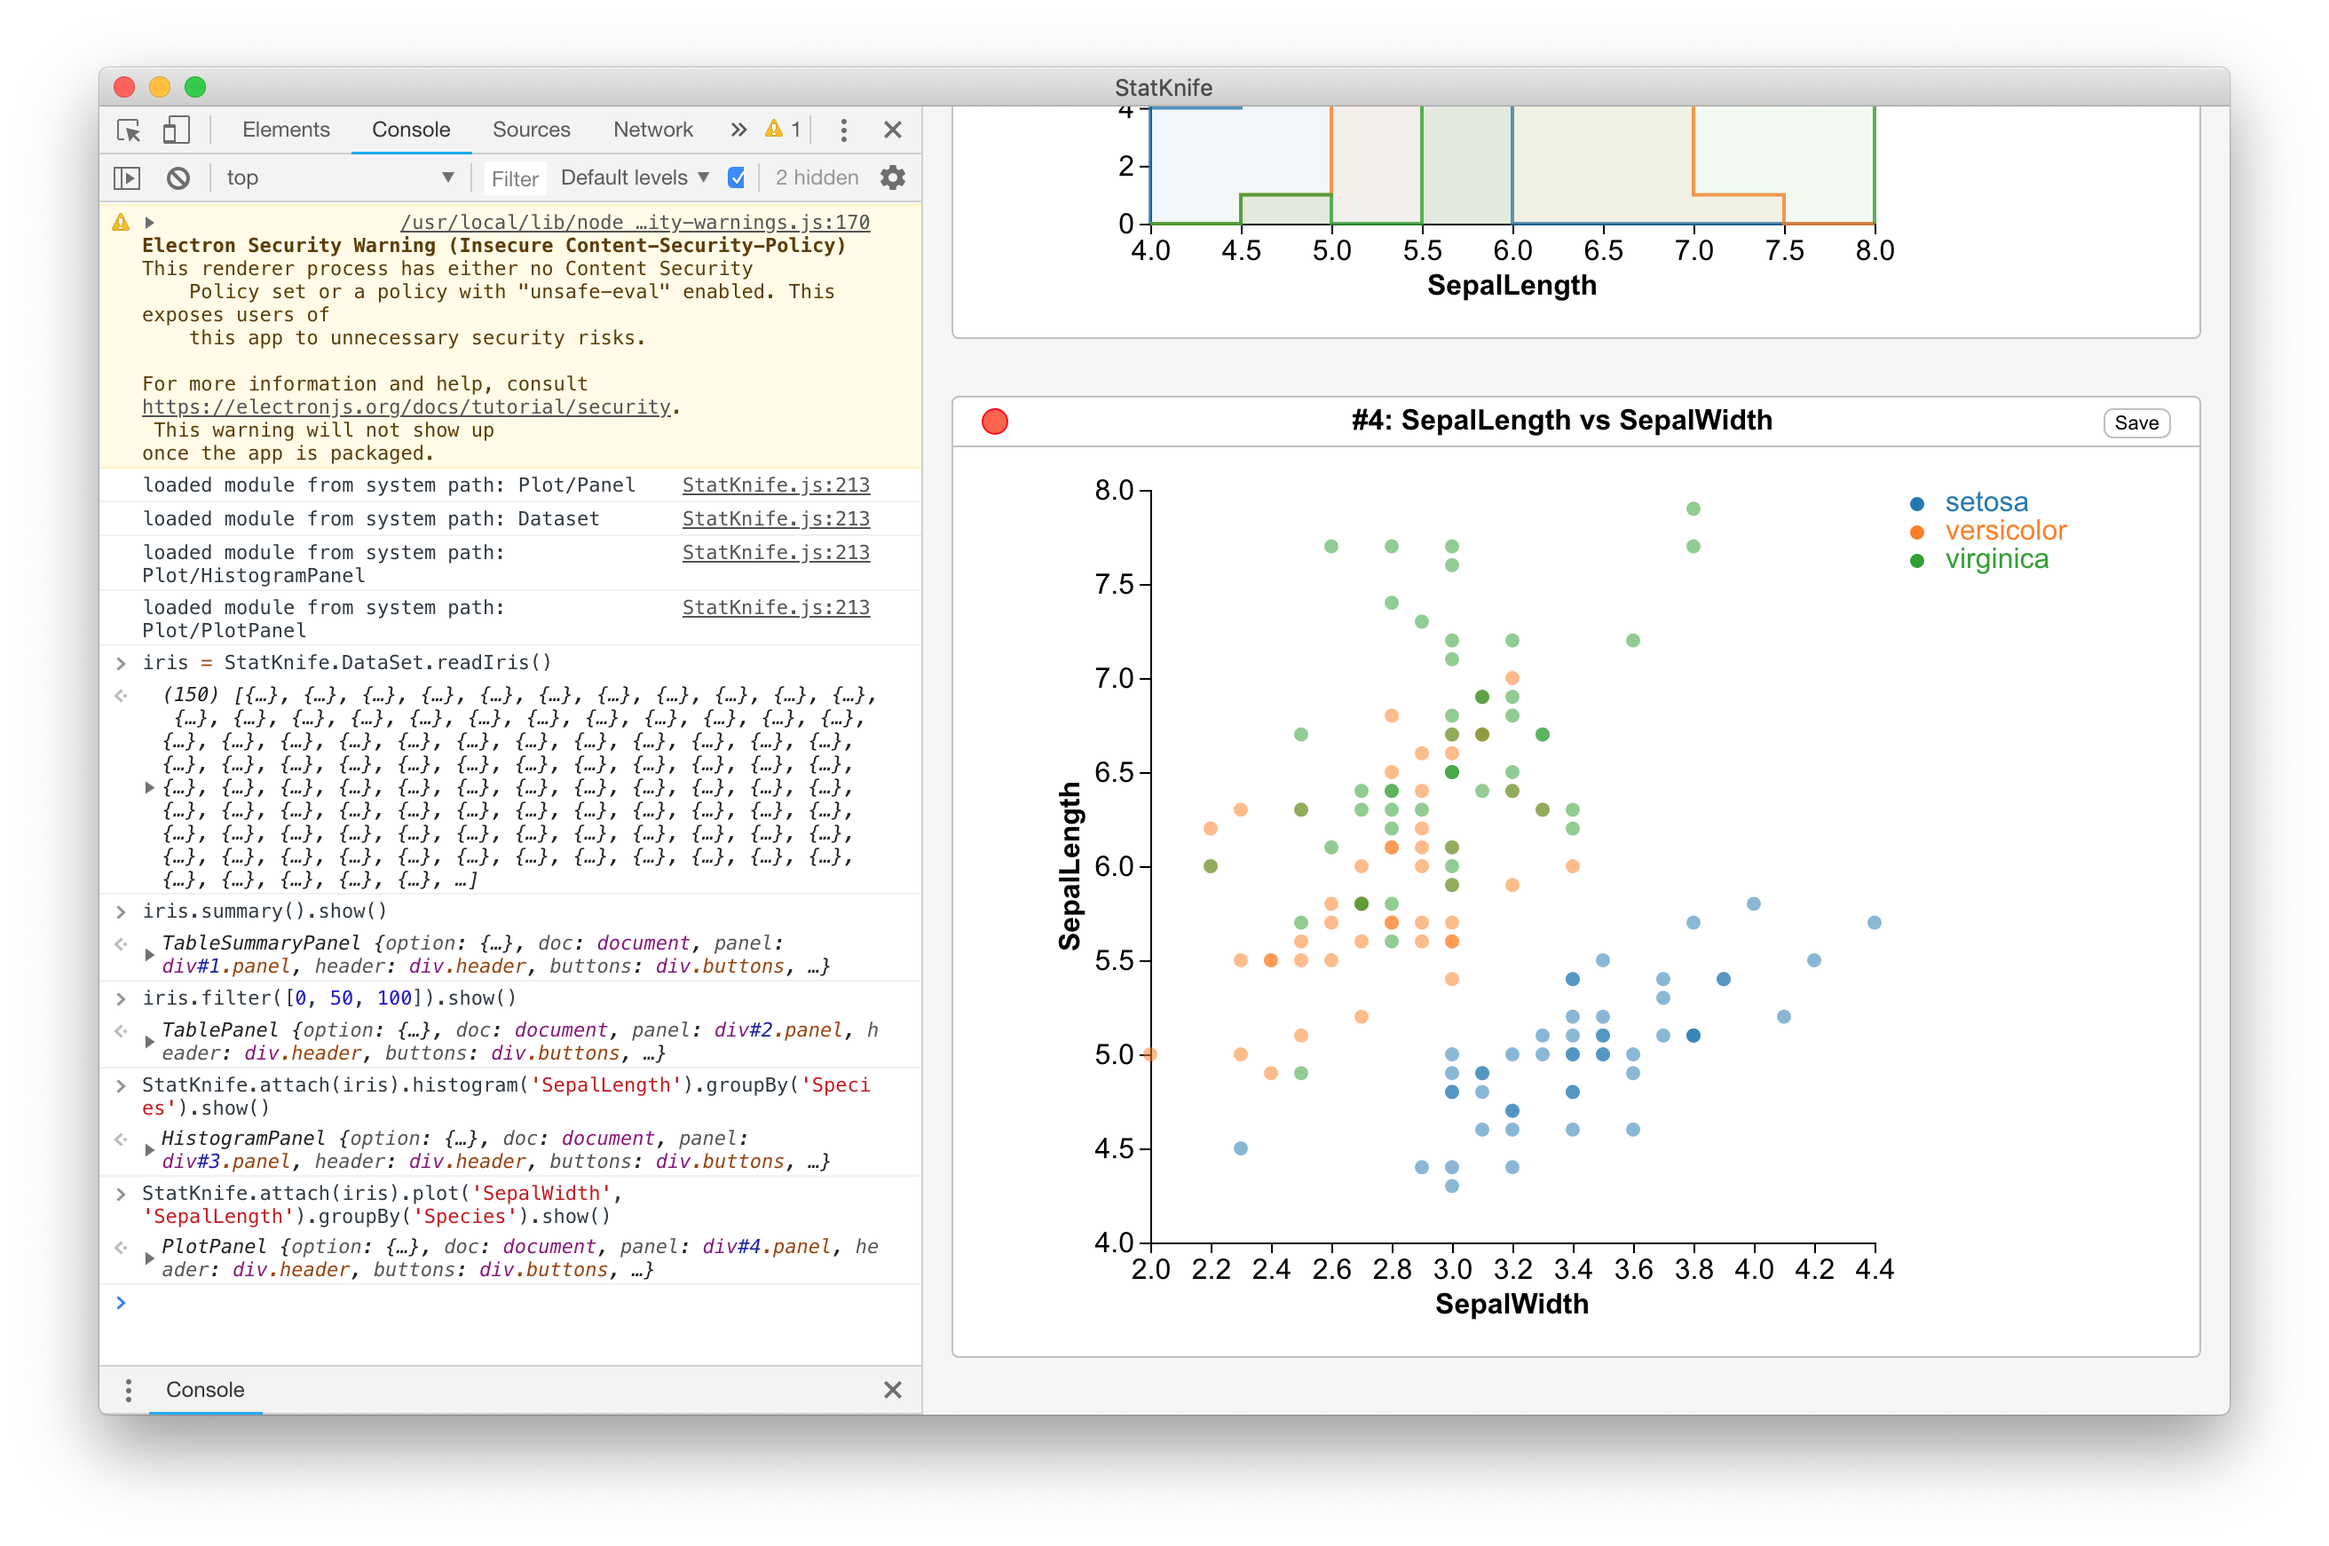
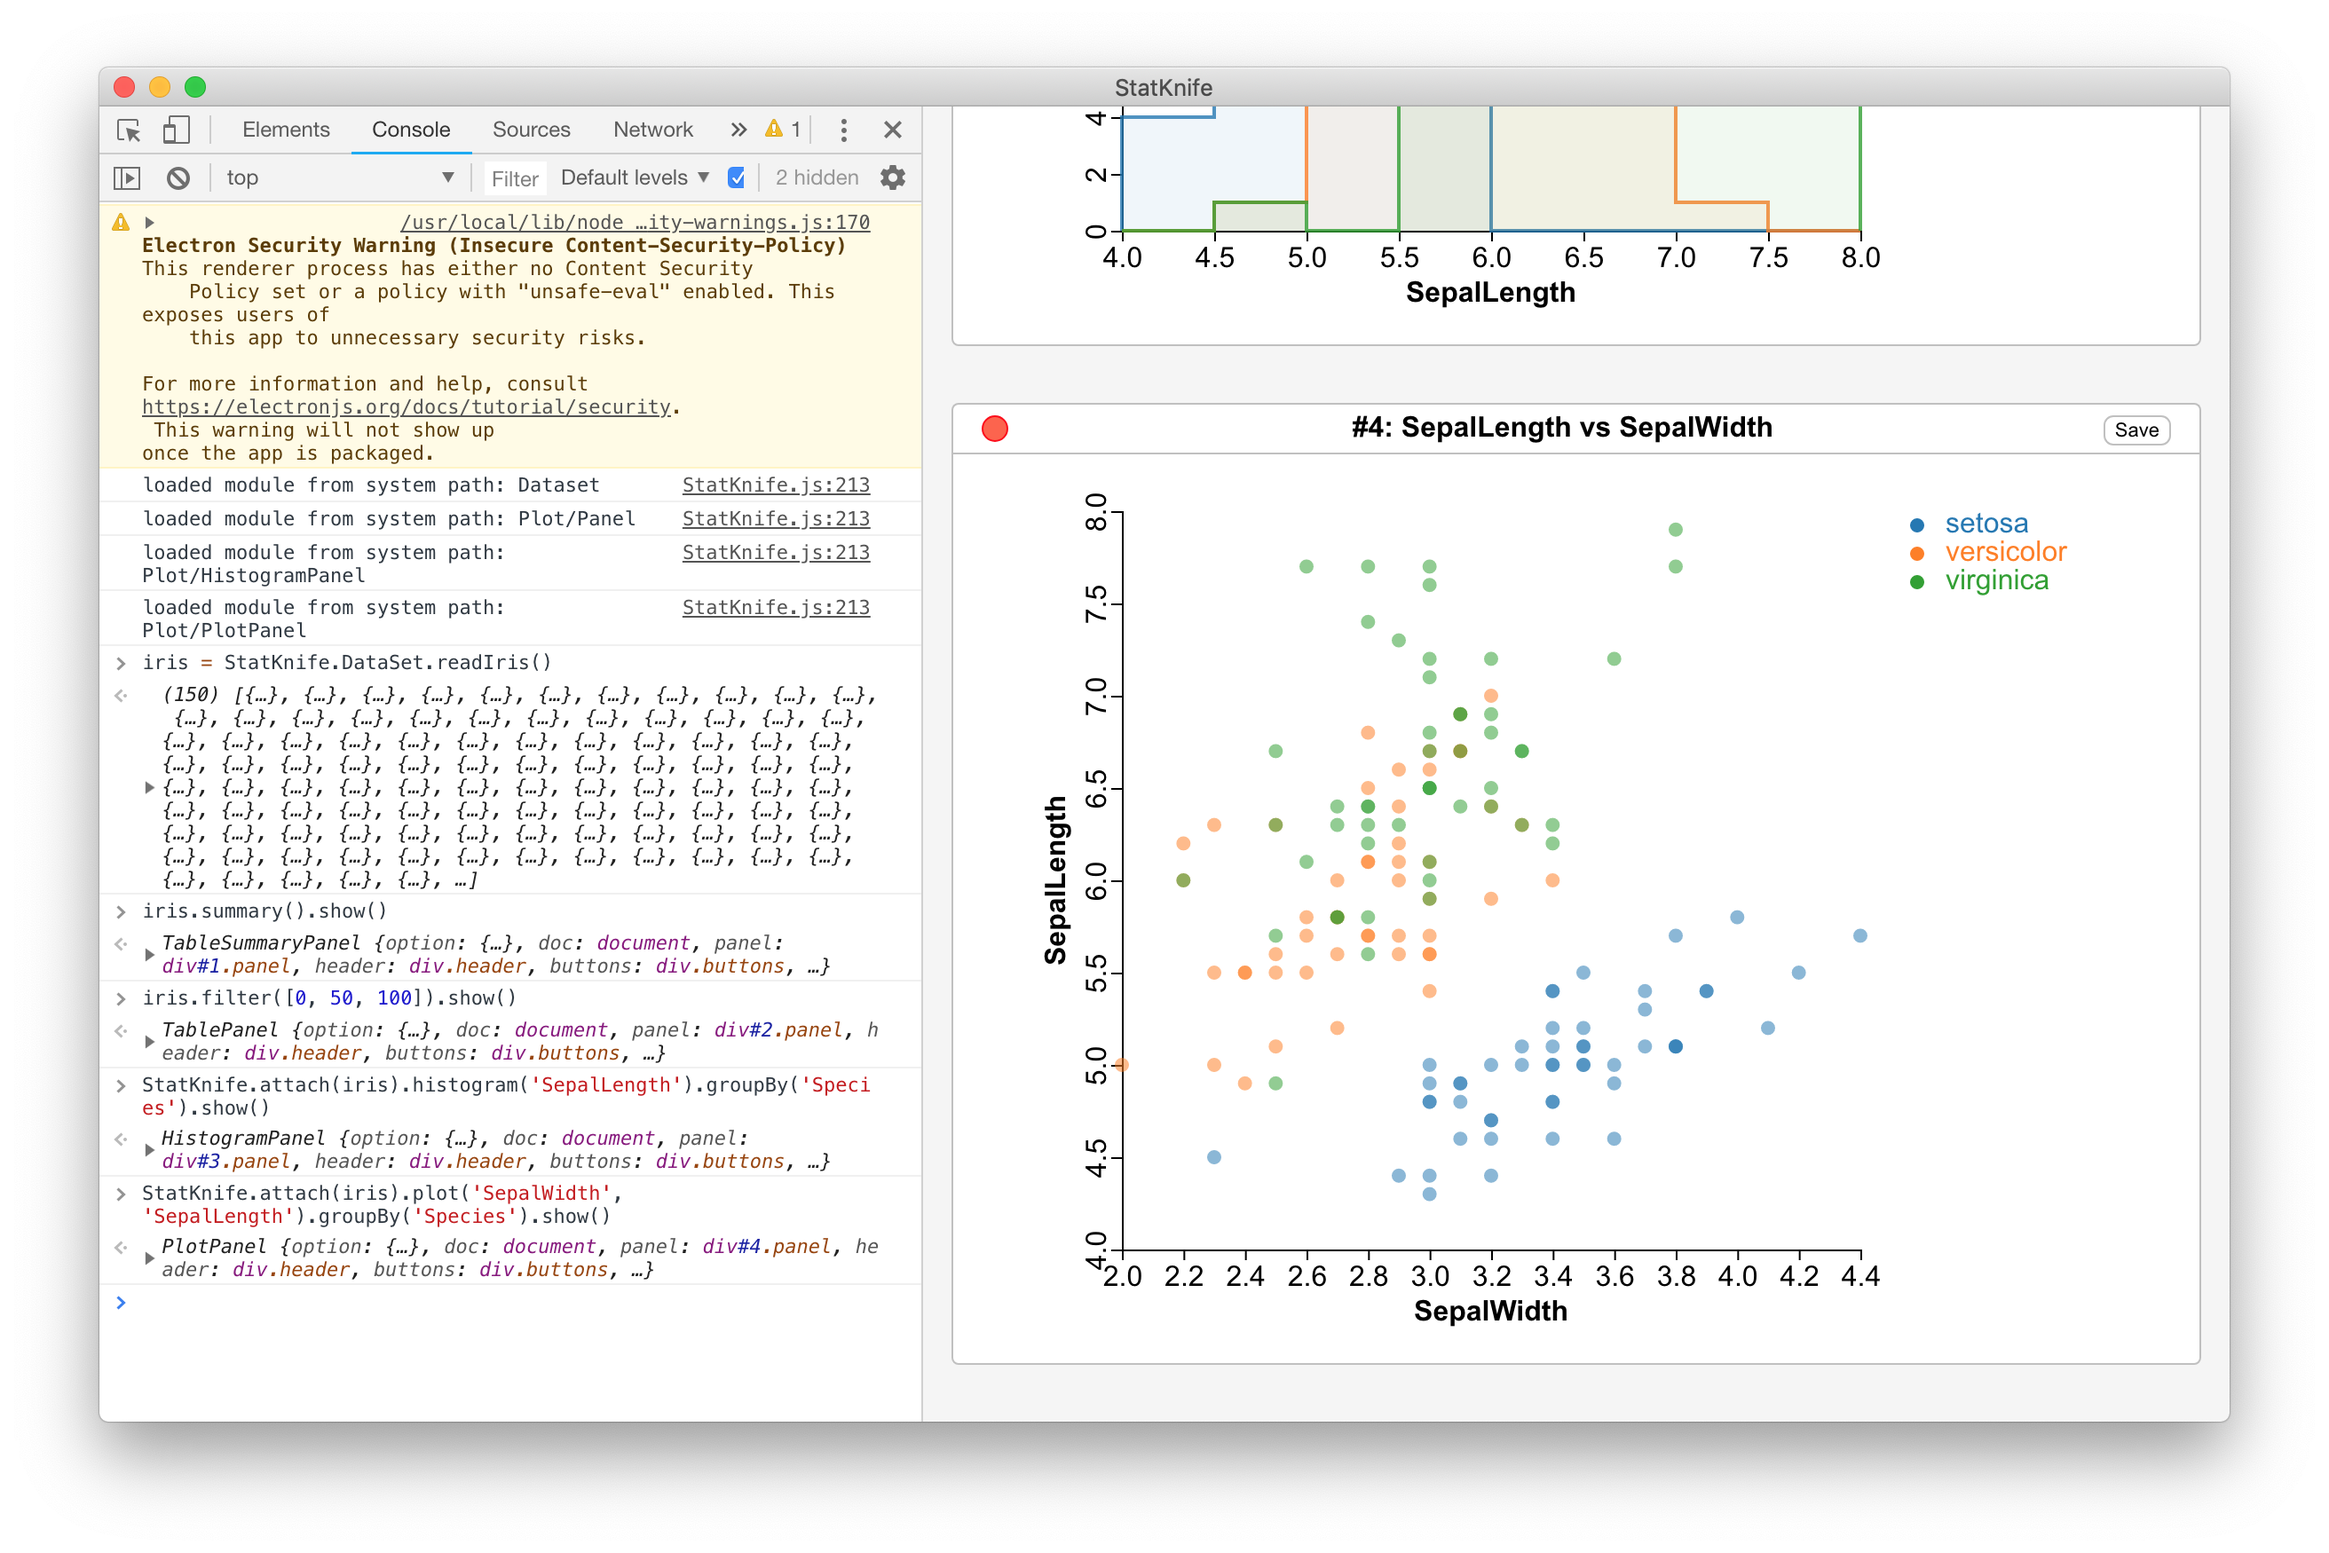
Fixed Y label rotation in plots

diff --git a/lib/Plot/Panel.js b/lib/Plot/Panel.js
@@ -10,7 +10,7 @@ export default class Panel extends StatKnifePanel {
   constructor(...args) {
     super(...args);
     this.width(480).height(480);
-    this._margin = {top: 8, right: 8, bottom: 48, left: 64};
+    this._margin = {top: 16, right: 16, bottom: 48, left: 48};
     this._xScale = d3.scaleLinear();
     this._yScale = d3.scaleLinear();
     this.xLabel('X').yLabel('Y');
@@ -119,9 +119,12 @@ export default class Panel extends StatKnifePanel {
     this._xScale.range([this.margin().left, this.width() - this.margin().right]);
     this._xAxis = d3.axisBottom(this._xScale);
     this.svg.append('title').text(this.name());
-    this.svg.append('g')
+    this._xAxisTick = this.svg.append('g')
       .attr('transform', `translate(0, ${this.height() - this.margin().bottom})`)
-      .call(this._xAxis)
+      .call(this._xAxis);
+    this._xAxisTickLabel = this._xAxisTick.selectAll('text')
+      .attr('font-size', '12pt');
+    this._xAxisLabel = this._xAxisTick
       .append('text')
       .attr('fill', 'black')
       .attr('x', (this.width() - this.margin().left - this.margin().right)/2.0 + this.margin().left)
@@ -140,19 +143,27 @@ export default class Panel extends StatKnifePanel {
     }
     this._yScale.range([this.height() - this.margin().bottom, this.margin().top]);
     this._yAxis = d3.axisLeft(this._yScale);
-    this.svg.append('g')
+    this._yAxisTick = this.svg.append('g')
       .attr('transform', `translate(${this.margin().left}, 0)`)
-      .call(this._yAxis)
+      .call(this._yAxis);
+    this._yAxisTickLabel = this._yAxisTick
+      .selectAll('text')
+      .attr('alignment-baseline', 'text-after-edge')
+      .attr('font-size', '12pt')
+      .attr('transform', 'rotate(-90)')
+      .attr('text-anchor', 'middle')
+      .attr('x', 0)
+      .attr('y', '-0.71em');
+    this._yAxisLabel = this._yAxisTick
       .append('text')
       .attr('fill', 'black')
       .attr('x', -(this.height() - this.margin().top - this.margin().bottom)/2.0 - this.margin().top)
-      .attr('y', -40.0)
+      .attr('y', -32.0)
       .attr('transform', 'rotate(-90)')
       .attr('font-size', '12pt')
       .attr('font-weight', 'bold')
       .attr('text-anchor', 'middle')
       .text(this.yLabel());
-    this.svg.selectAll('.tick').attr('font-size', '12pt');
     if (this._legend) {
       switch (this._legend.position) {
       case 'marginRight':
